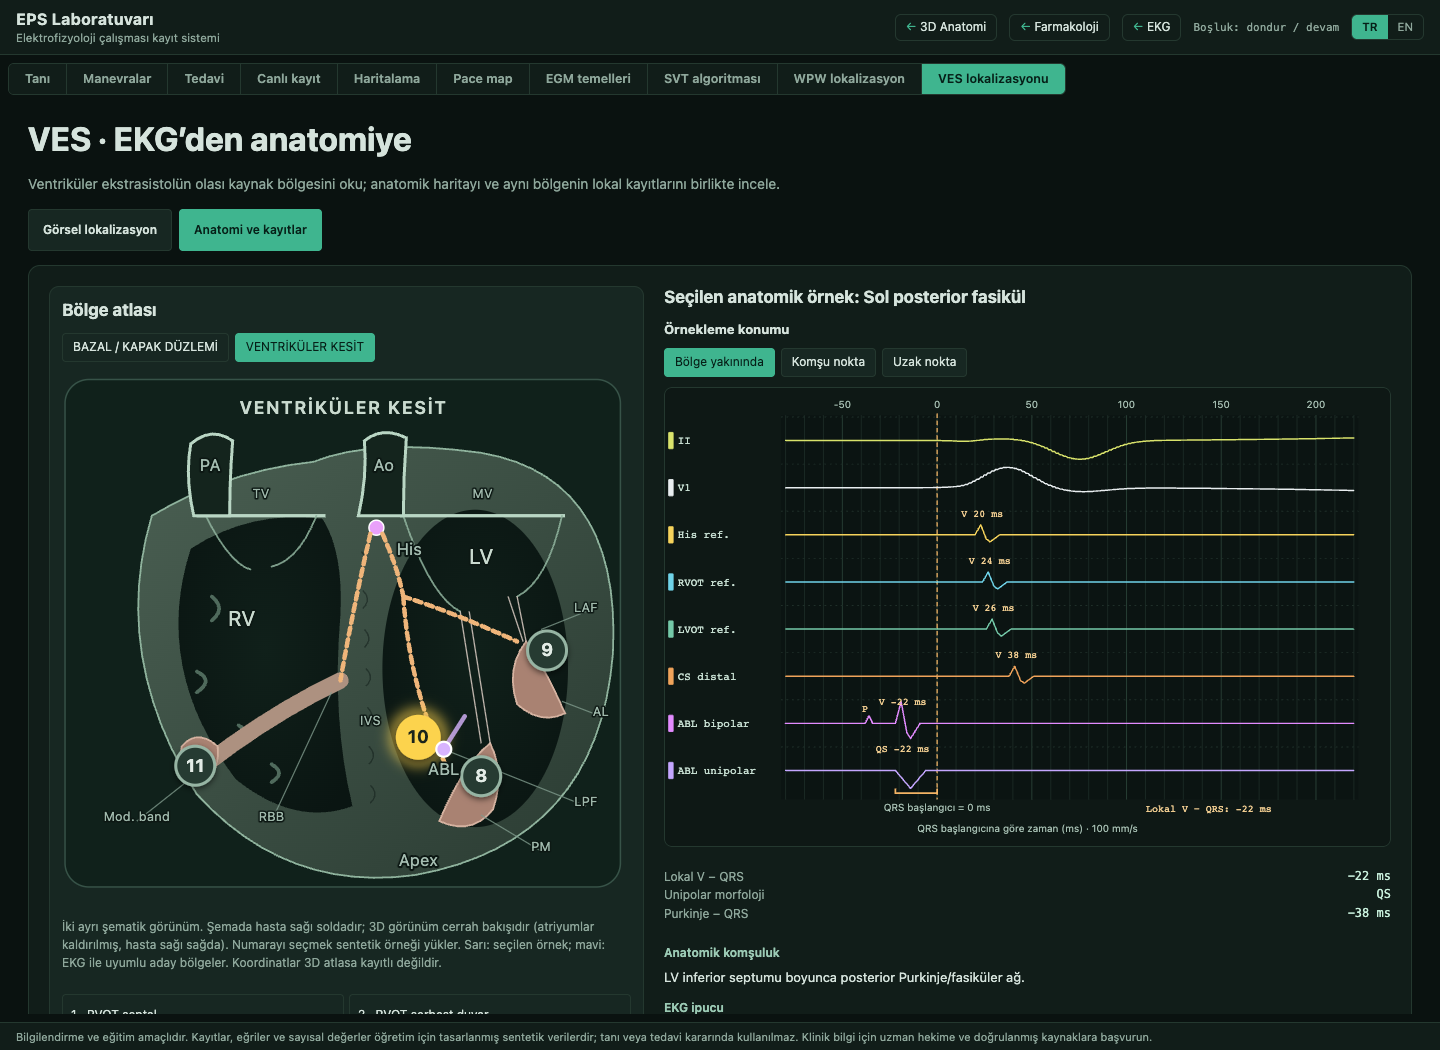
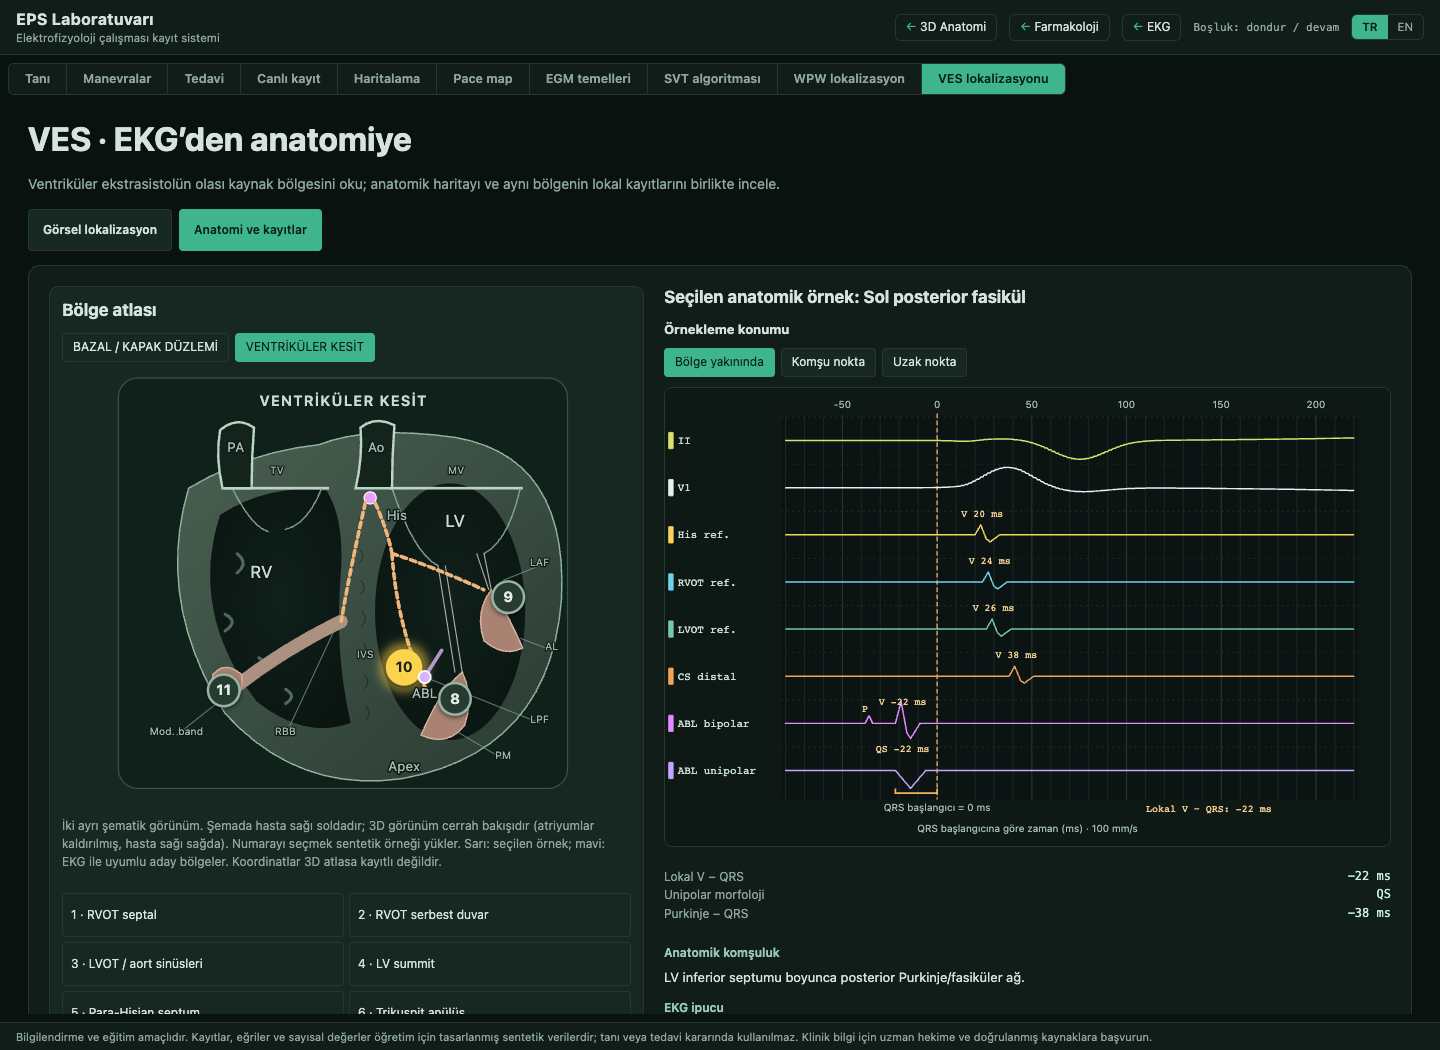
fix(eps): VES atlas size and RCA origin
Cap the region atlas at 460 px (or 62vh) in a 500 px column and keep it
in view beside the findings on desktop; on narrow screens it stays in
the flow. The RCA now leaves the right coronary sinus ostium, passes in
front of the RVOT base and runs in the right AV groove outside the
tricuspid annulus to the crux.

Changed region(s): [[0.0312, 0.3657, 0.4375, 0.9752]]

diff --git a/src/eps/ves-loc.css b/src/eps/ves-loc.css
@@ -3,7 +3,7 @@
 .ves > .amap-note { margin: 0; max-width: 900px; font-size: 14px; line-height: 1.6; }
 .ves-page { padding: 20px; border-radius: 12px; display: grid; gap: 16px; min-width: 0; }
 .ves h4 { margin: 0; font-size: 17px; }
-.ves-localize-layout { display: grid; grid-template-columns: minmax(300px, .8fr) minmax(0, 1.2fr); gap: 20px; align-items: start; }
+.ves-localize-layout { display: grid; grid-template-columns: minmax(300px, 1fr) minmax(0, 500px); gap: 20px; align-items: start; }
 .ves-findings { display: grid; gap: 10px; min-width: 0; }
 .ves-finding { padding: 10px; border: 1px solid var(--line); border-left: 3px solid var(--line); border-radius: 7px; display: grid; gap: 7px; }
 .ves-finding[data-next=true] { border-left-color: #fcd34d; }
@@ -13,6 +13,9 @@
 .ves button[aria-pressed=true] .ves-trace { stroke: #173e2a; }
 .ves-atlas { display: grid; gap: 10px; padding: 12px; background: var(--panel-2); border: 1px solid var(--line); border-radius: 10px; min-width: 0; }
 .ves-map, .ves-ecg, .ves-monitor { display: block; width: 100%; min-width: 0; height: auto; }
+/* The atlas follows the column but never outgrows the reading area; it stays in view while the findings scroll. */
+.ves-map { width: min(100%, 460px, 62vh); margin-inline: auto; }
+.ves-localize-layout > .ves-atlas { position: sticky; top: 0; }
 .ves-ecg, .ves-monitor { background: #0e1815; border: 1px solid var(--line); border-radius: 8px; }
 .ves-ecg { background: #1a1416; }
 .ves-strip-window { min-width: 0; max-width: 100%; overflow-x: auto; border-radius: 8px; }
@@ -74,6 +77,9 @@
 .ves-trace { stroke: #173e2a; }
 .ves-atlas { display: grid; gap: 10px; padding: 12px; background: var(--panel-2); border: 1px solid var(--line); border-radius: 10px; min-width: 0; }
 .ves-map, .ves-ecg, .ves-monitor { display: block; width: 100%; min-width: 0; height: auto; }
+/* The atlas follows the column but never outgrows the reading area; it stays in view while the findings scroll. */
+.ves-map { width: min(100%, 460px, 62vh); margin-inline: auto; }
+.ves-localize-layout > .ves-atlas { position: sticky; top: 0; }
 .ves-ecg, .ves-monitor { background: #0e1815; border: 1px solid var(--line); border-radius: 8px; }
 .ves-ecg { background: #1a1416; }
 .ves-strip-window { min-width: 0; max-width: 100%; overflow-x: auto; border-radius: 8px; }
@@ -151,7 +157,7 @@
 .ves-sources { padding: 12px; border: 1px solid var(--line); border-radius: 8px; }
 .ves-sources summary { cursor: pointer; font-weight: 600; }
 .ves-sources li { margin: 6px 0; }
-@media (max-width: 1050px) { .ves-localize-layout, .ves-record-layout { grid-template-columns: 1fr; } .ves-localize-layout > .ves-atlas { grid-row: 1; } }
+@media (max-width: 1050px) { .ves-localize-layout, .ves-record-layout { grid-template-columns: 1fr; } .ves-localize-layout > .ves-atlas { grid-row: 1; position: static; } }
 @media (max-width: 560px) {
   .ves { padding: 10px 3px 20px; }
   .ves-page { padding: 10px; gap: 12px; }

diff --git a/src/eps/ves-loc-map.js b/src/eps/ves-loc-map.js
@@ -87,8 +87,8 @@ function basalView(doc, g, uid, t) {
   g.append(s(doc, 'path', { d: 'M172 288 Q232 322 300 292 Q358 262 354 190 Q350 132 310 106 Q294 96 284 90', class: 'ves-map-vein' }));
   g.append(s(doc, 'path', { d: 'M196 300 Q192 318 198 336', class: 'ves-map-vein' }));
   g.append(s(doc, 'ellipse', { cx: 172, cy: 288, rx: 7, ry: 5, class: 'ves-map-os' }));
-  // Coronary arteries: RCA around the tricuspid annulus to the crux; left main from the LCC to the LAD (anterior) and LCx (mitral annulus).
-  for (const d of ['M60 152 Q18 214 40 272 Q78 322 150 316 Q174 312 188 302', 'M236 120 L280 100', 'M280 100 Q300 72 316 36', 'M280 100 Q328 126 334 188 Q336 232 310 266', 'M300 64 L324 90', 'M34 232 L24 244']) {
+  // Coronary arteries: RCA from the RCC ostium, in front of the RVOT base, around the tricuspid annulus to the crux; left main from the LCC to the LAD (anterior) and LCx (mitral annulus).
+  for (const d of ['M190 100 Q126 102 74 136 Q20 180 28 250 Q58 322 142 320 Q172 316 188 302', 'M236 120 L280 100', 'M280 100 Q300 72 316 36', 'M280 100 Q328 126 334 188 Q336 232 310 266', 'M300 64 L324 90', 'M24 214 L10 218']) {
     g.append(s(doc, 'path', { d, class: 'ves-map-artery-shadow' }), s(doc, 'path', { d, class: 'ves-map-artery', stroke: `url(#${uid}-vessel)` }));
   }
   g.append(s(doc, 'circle', { cx: 190, cy: 100, r: 3, class: 'ves-map-ostium' }), s(doc, 'circle', { cx: 236, cy: 120, r: 3, class: 'ves-map-ostium' }));
@@ -99,7 +99,7 @@ function basalView(doc, g, uid, t) {
   label(doc, g, 100, 216, 'TA', 'ves-map-label'); label(doc, g, 268, 216, 'MA', 'ves-map-label'); label(doc, g, 205, 136, 'Ao', 'ves-map-label');
   label(doc, g, 146, 158, 'His', 'ves-map-caption'); label(doc, g, 150, 306, 'CS os', 'ves-map-caption', [166, 292]);
   label(doc, g, 330, 30, 'LAD', 'ves-map-caption', [316, 38]); label(doc, g, 318, 290, 'LCx', 'ves-map-caption', [312, 268]);
-  label(doc, g, 28, 196, 'RCA', 'ves-map-caption', [30, 214]); label(doc, g, 334, 318, 'CS', 'ves-map-caption', [304, 292]);
+  label(doc, g, 26, 160, 'RCA', 'ves-map-caption', [58, 160]); label(doc, g, 334, 318, 'CS', 'ves-map-caption', [304, 292]);
   label(doc, g, 222, 336, 'MCV', 'ves-map-caption'); label(doc, g, 352, 150, 'GCV', 'ves-map-caption', [352, 170]);
   label(doc, g, 183, 28, t.base, 'ves-map-title');
   label(doc, g, 22, 334, 'R', 'ves-map-axis'); label(doc, g, 346, 334, 'L', 'ves-map-axis'); label(doc, g, 183, 46, 'ANT', 'ves-map-axis'); label(doc, g, 110, 336, 'POST', 'ves-map-axis');
